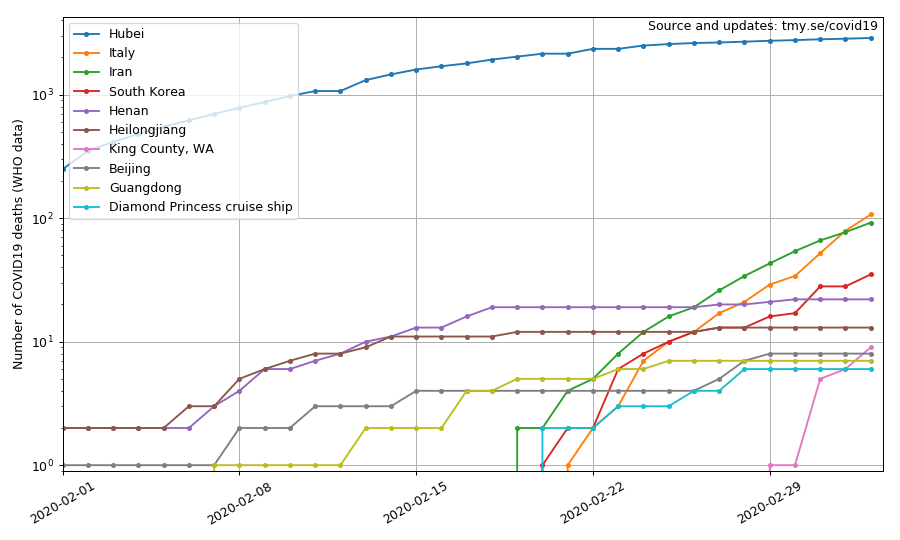
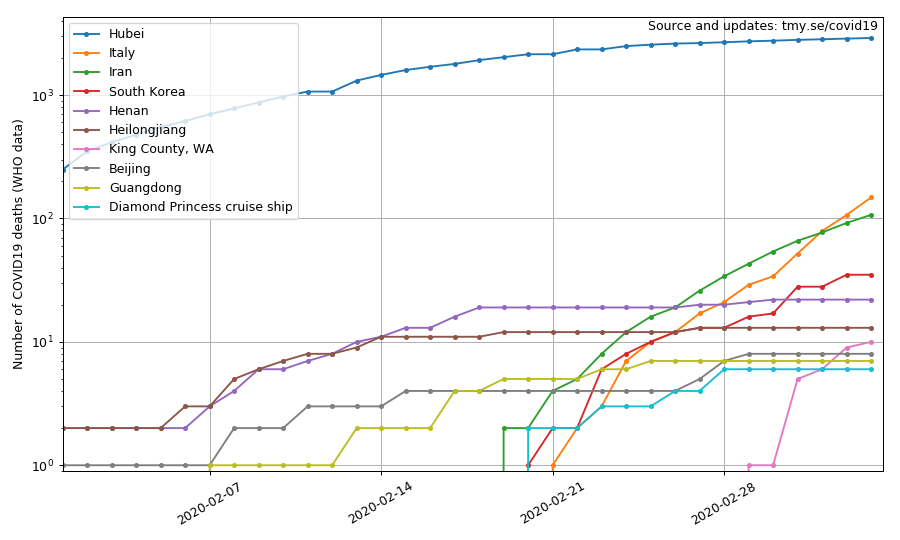
fixes

diff --git a/plot_covid_death.py b/plot_covid_death.py
@@ -6,11 +6,10 @@ from matplotlib import pyplot as plt
 from datetime import datetime, timedelta
 day = timedelta(1)
 
-REPO = '/home/tom/COVID-19/csse_covid_19_data/csse_covid_19_time_series'
-CASES = os.path.join(REPO,'time_series_19-covid-Confirmed.csv')
-DEATHS = os.path.join(REPO,'time_series_19-covid-Deaths.csv')
+REPO = '2019-nCoV/csse_covid_19_data/csse_covid_19_time_series'
+CASES = os.path.join(REPO,'time_series_19-covid-Deaths.csv')
 
-cases = pd.read_csv(DEATHS)
+cases = pd.read_csv(CASES)
 ts = cases.columns[4:]
 ts = [str(t).split('/') for t in ts]
 dates = [datetime(int(t[2])+2000,int(t[0]),int(t[1])) for t in ts]
@@ -24,17 +23,16 @@ S=cases[cases.country=='Sweden'].T[4:]
 I=cases[cases.country=='Italy'].T[4:]
 
 
-deltaF = 10
-deltaG = 15
-deltaS = 15
-deltaI = 0
-deltaK = 2
+deltaF = 12
+deltaG = 12
+deltaS = 16
+deltaI = 4
 
 fig = plt.Figure(figsize=(10,6))
 #fig.autofmt_xdate(rotation=30)
 plt.xticks(rotation=30)
-
-plt.plot([date-deltaK*day for date in dates],SK,'-o', label='S.Korea -%d days'%deltaK)
+plt.yscale('log')
+plt.plot(dates,SK,'-o', label='S.Korea')
 plt.plot([date-deltaI*day for date in dates],I,'-o', label='Italy -%d days'%deltaI)
 plt.plot([date-deltaF*day for date in dates],F,'-o', label='France -%d days'%deltaF)
 plt.plot([date-deltaG*day for date in dates],G,'-o', label='Germany -%d days'%deltaG)
@@ -44,7 +42,7 @@ ax = list(plt.axis())
 ax[0] = dates[20].toordinal()
 plt.axis(ax)
 
-plt.ylabel('Number of COVID19 deaths (WHO data)')
+plt.ylabel('Number of COVID19 cases (WHO data)')
 plt.legend(loc='upper left')
 plt.tight_layout()
 plt.show()

diff --git a/plot_covid_case.py b/plot_covid_case.py
@@ -6,7 +6,7 @@ from matplotlib import pyplot as plt
 from datetime import datetime, timedelta
 day = timedelta(1)
 
-REPO = '/home/tom/COVID-19/csse_covid_19_data/csse_covid_19_time_series'
+REPO = '2019-nCoV/csse_covid_19_data/csse_covid_19_time_series'
 CASES = os.path.join(REPO,'time_series_19-covid-Confirmed.csv')
 
 cases = pd.read_csv(CASES)

diff --git a/plot_covid_most.py b/plot_covid_most.py
@@ -6,7 +6,7 @@ from matplotlib import pyplot as plt
 from datetime import datetime, timedelta
 day = timedelta(1)
 
-REPO = '/home/tom/COVID-19/csse_covid_19_data/csse_covid_19_time_series'
+REPO = '2019-nCoV/csse_covid_19_data/csse_covid_19_time_series'
 DEATHS = os.path.join(REPO,'time_series_19-covid-Deaths.csv')
 
 Nmost = 10
